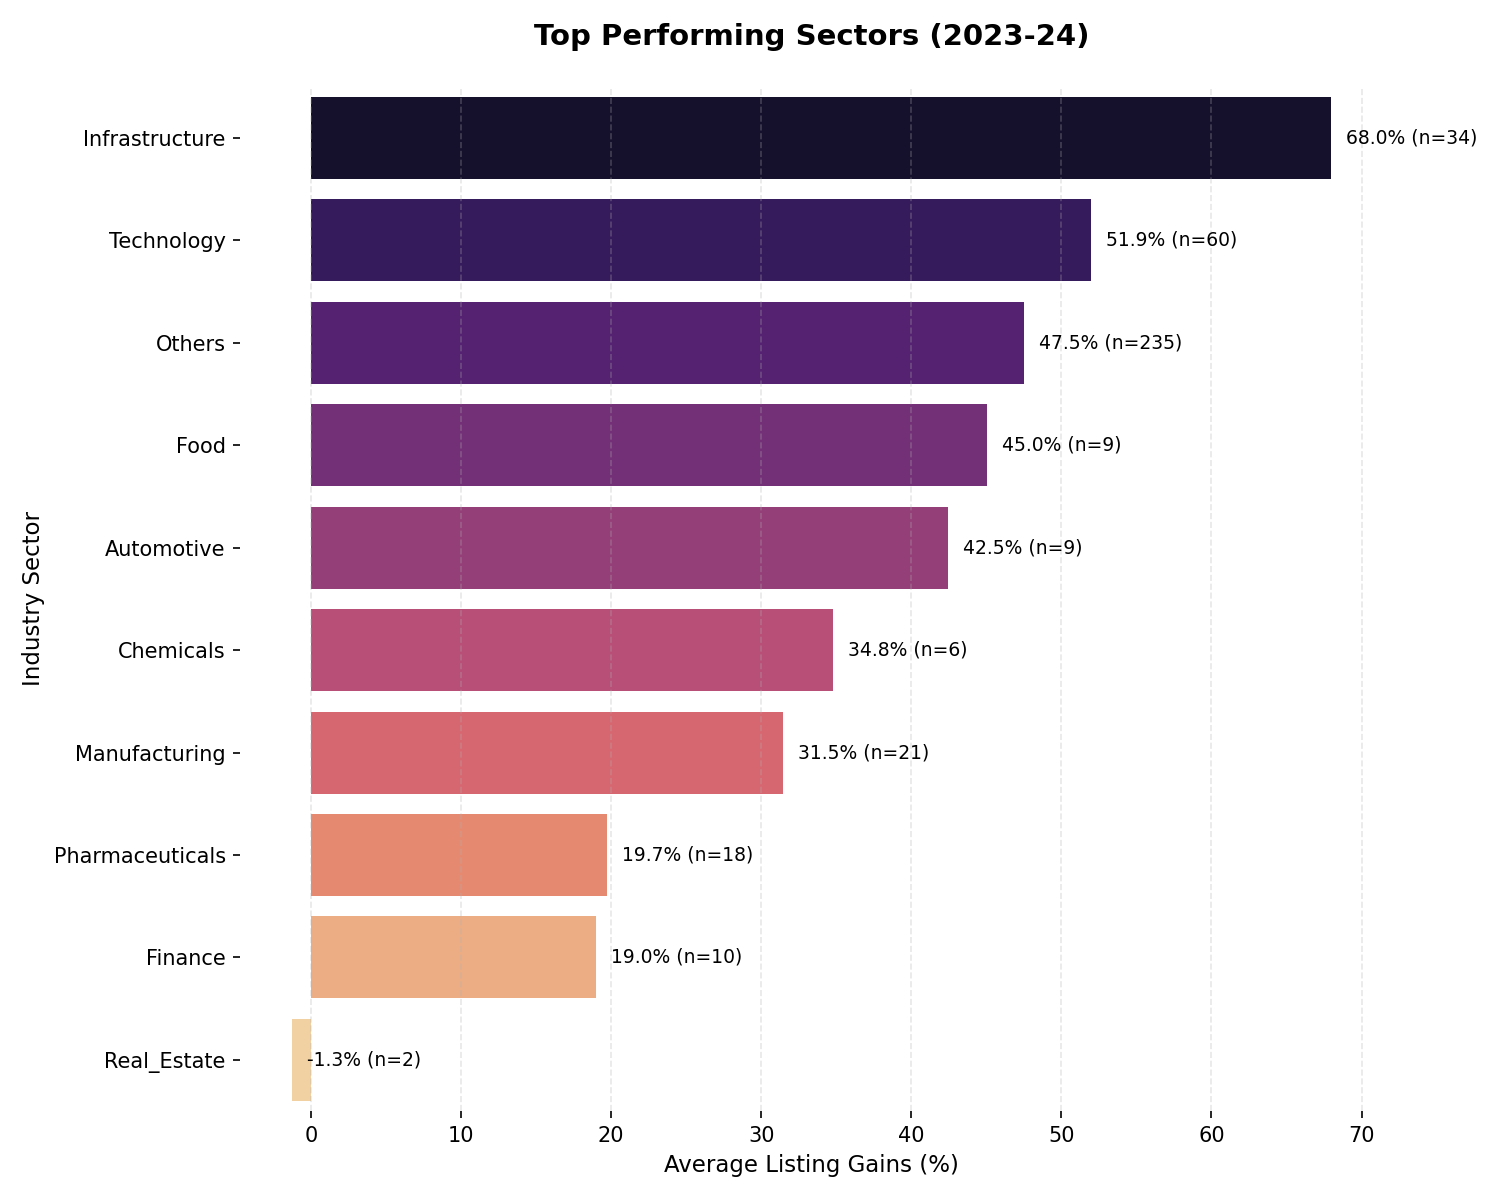
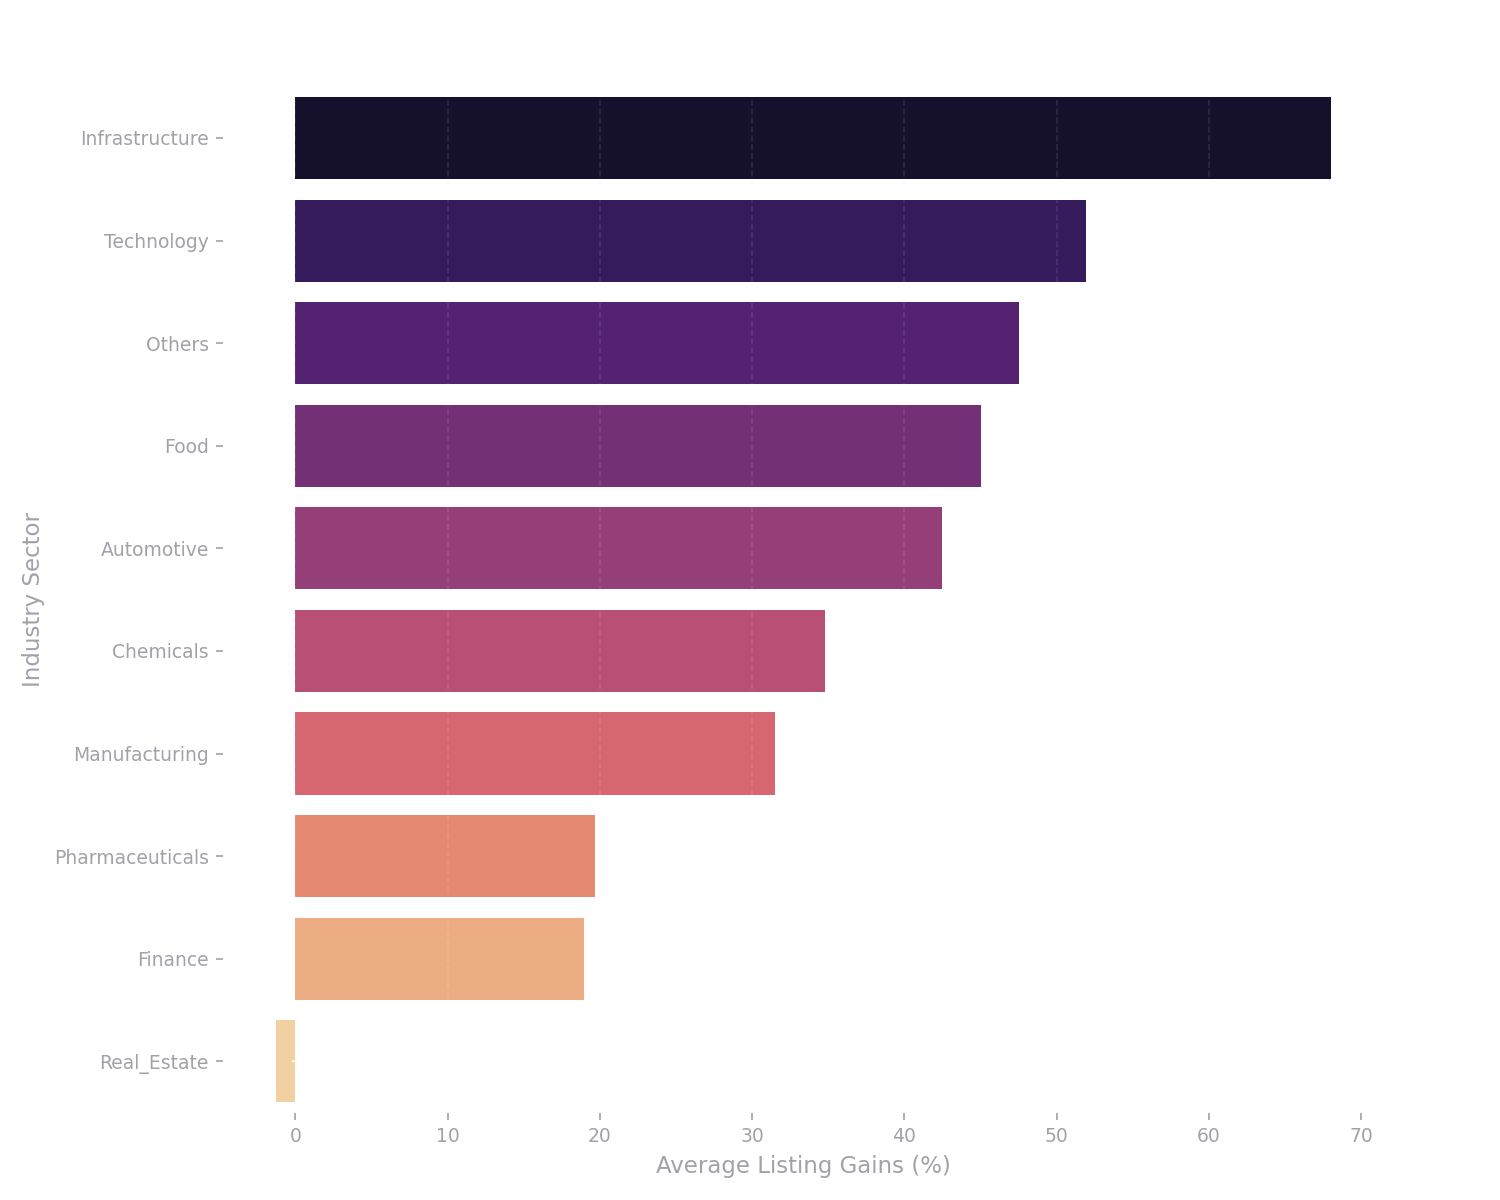
Fix dark mode visibility for sector benchmark chart

diff --git a/eda_analyzer.py b/eda_analyzer.py
@@ -330,27 +330,32 @@ class IPOExploratoryAnalyzer:
 
         sector_stats = recent_df.groupby('sector')['listing_gains'].agg(['mean', 'count']).sort_values('mean', ascending=False)
         
-        plt.figure(figsize=(10, 8))
-        # Modern glassmorphism-friendly colors
-        colors = plt.cm.viridis(np.linspace(0, 0.8, len(sector_stats)))
+        # Set dark theme for this plot specifically
+        plt.style.use('dark_background')
+        plt.figure(figsize=(10, 8), facecolor='none')
         
         ax = sns.barplot(x=sector_stats['mean'], y=sector_stats.index, palette='magma')
         
         # Style the plot for premium look
-        plt.title('Top Performing Sectors (2023-24)', fontsize=14, fontweight='bold', pad=20)
-        plt.xlabel('Average Listing Gains (%)', fontsize=11)
-        plt.ylabel('Industry Sector', fontsize=11)
+        plt.title('Top Performing Sectors (2023-24)', fontsize=14, fontweight='bold', pad=20, color='white')
+        plt.xlabel('Average Listing Gains (%)', fontsize=11, color='#a1a1aa')
+        plt.ylabel('Industry Sector', fontsize=11, color='#a1a1aa')
         
         # Add labels to the end of bars
         for i, (v, count) in enumerate(zip(sector_stats['mean'], sector_stats['count'])):
-            plt.text(v + 1, i, f'{v:.1f}% (n={count})', va='center', fontsize=9, fontweight='500')
+            plt.text(v + 1, i, f'{v:.1f}% (n={count})', va='center', fontsize=9, fontweight='500', color='white')
             
-        plt.grid(axis='x', linestyle='--', alpha=0.3)
+        plt.grid(axis='x', linestyle='--', alpha=0.1)
         sns.despine(left=True, bottom=True)
+        
+        # Tick parameters for visibility
+        plt.tick_params(colors='#a1a1aa', labelsize=9)
         
         plt.tight_layout()
         plt.savefig('static/plots/sector_benchmark.png', dpi=150, transparent=True)
         plt.close()
+        # Reset to default style for other plots
+        plt.style.use('default')
         print("Saved: plots/sector_benchmark.png")
     
     def generate_insights(self, df):
